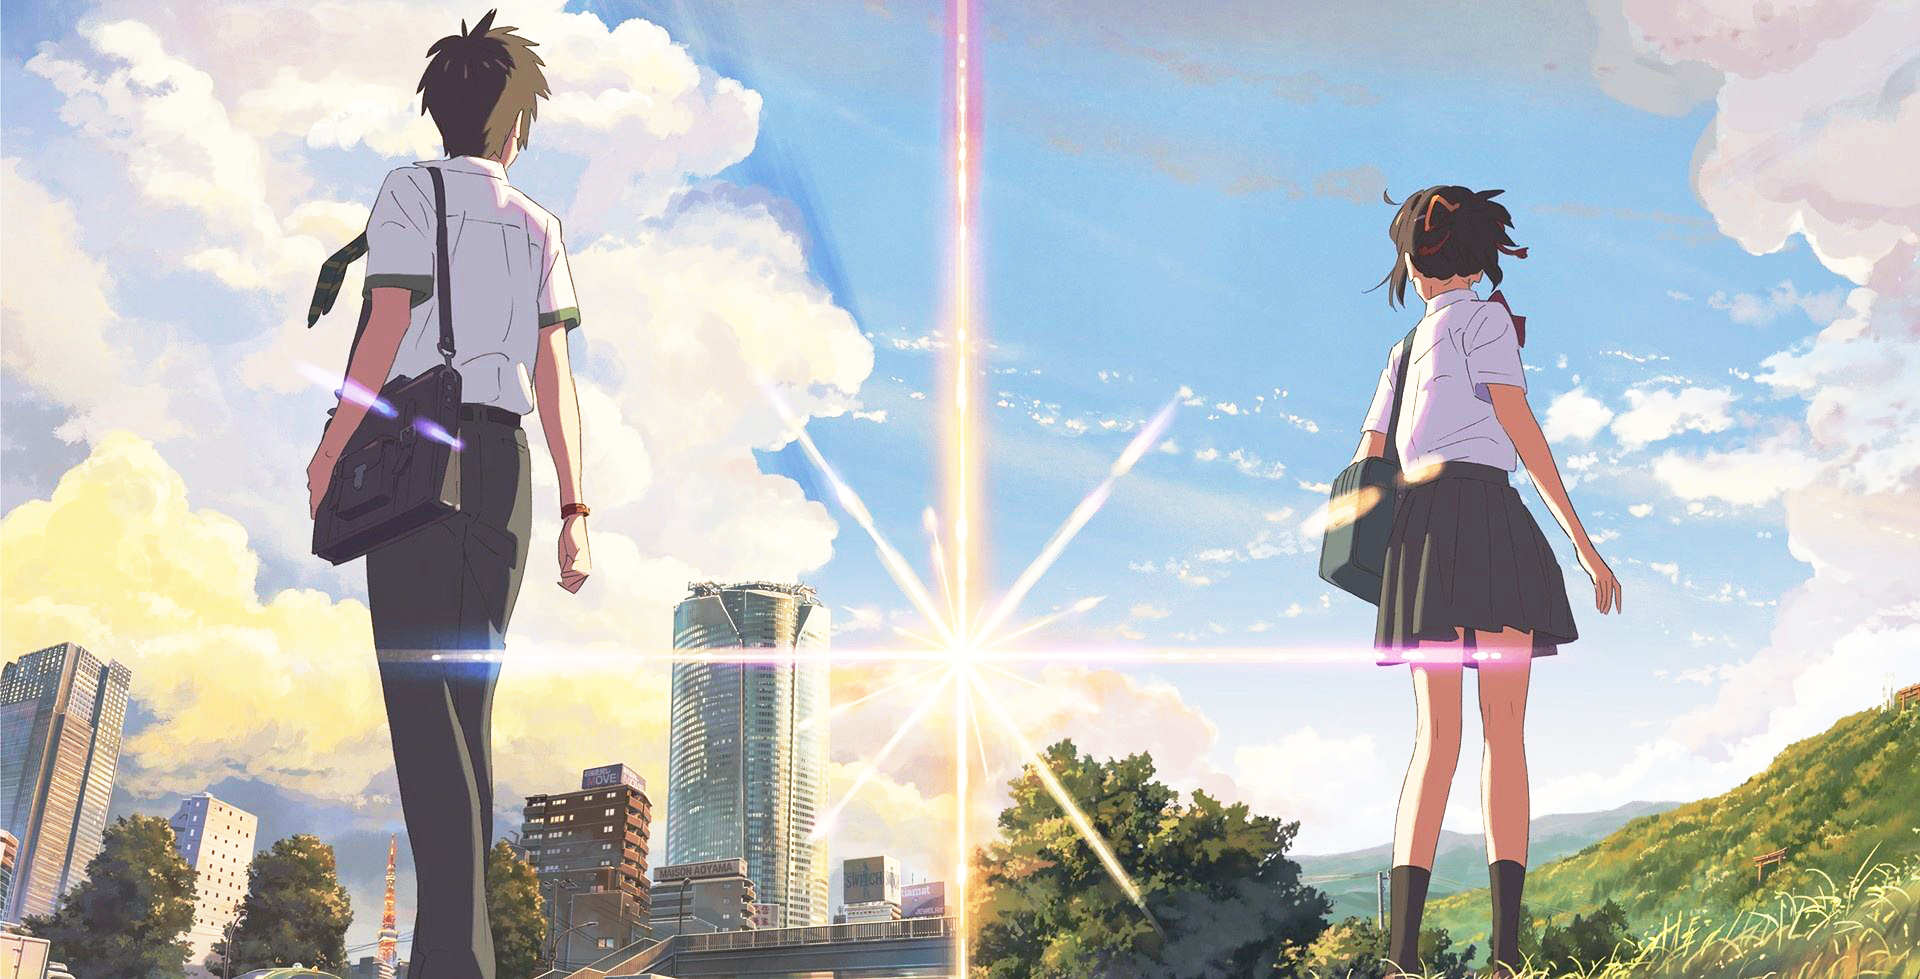
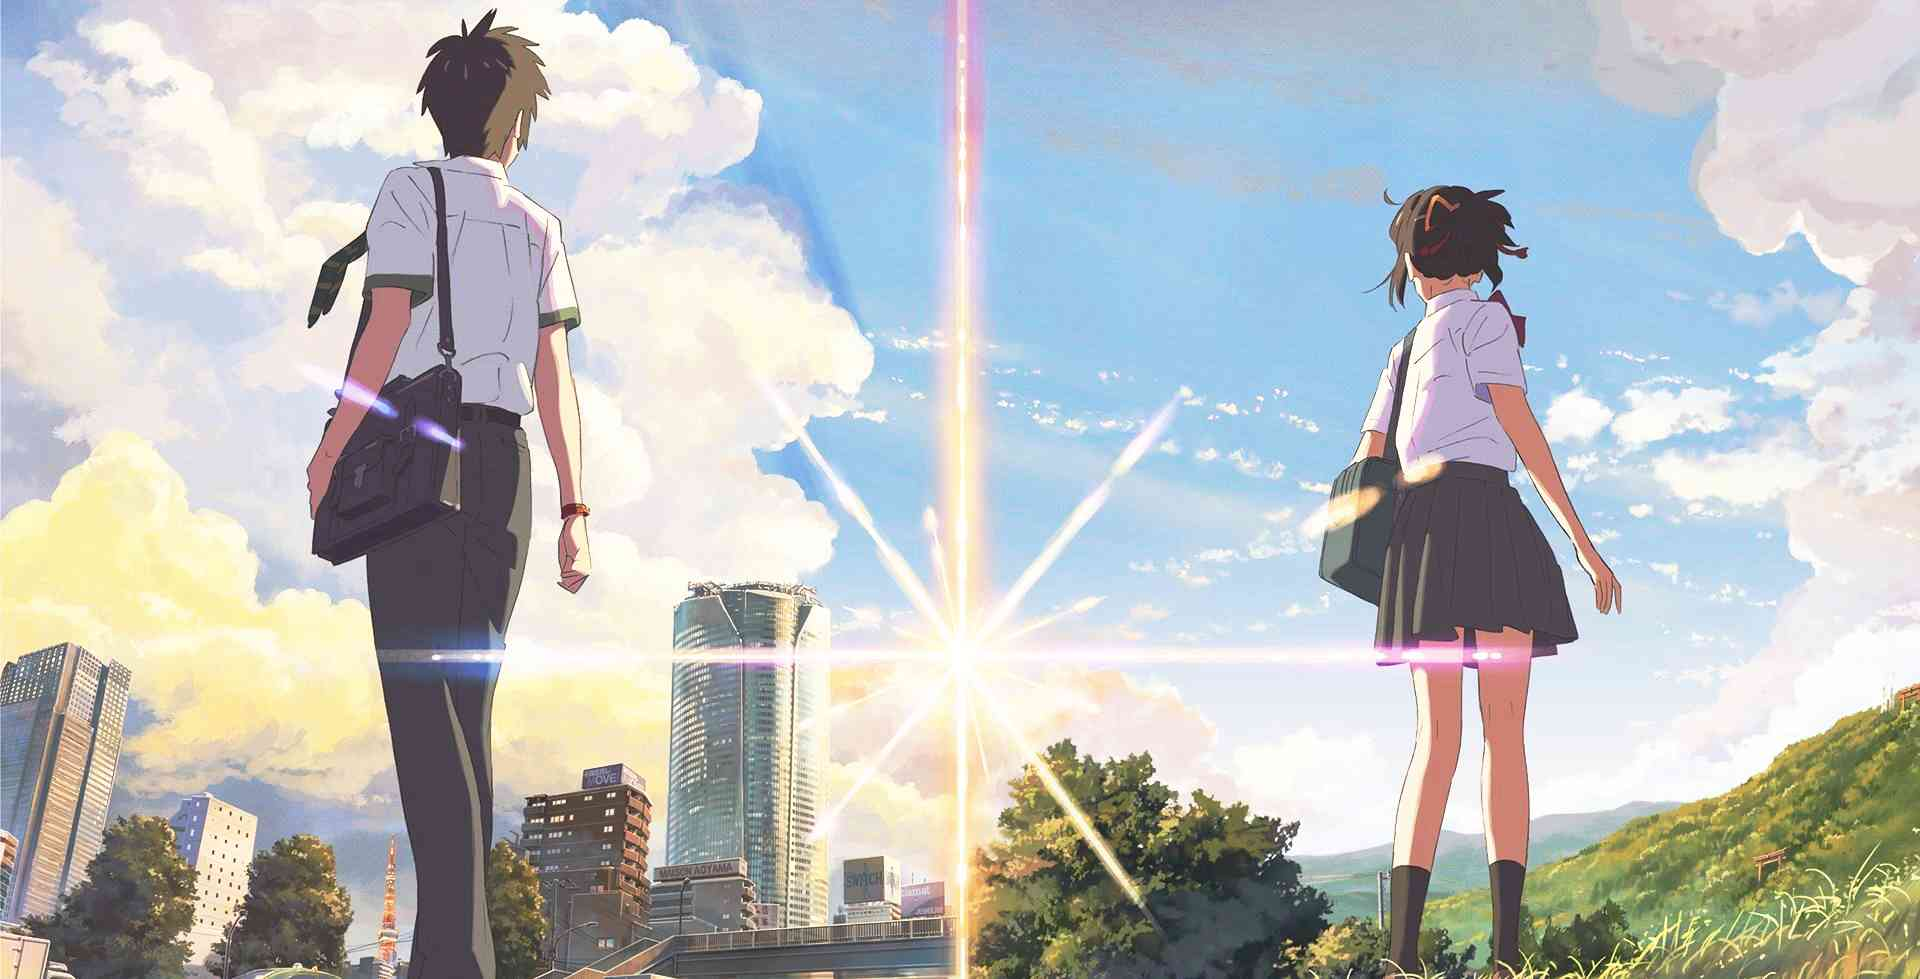
背景图大小优化

diff --git a/docs/M_服务器部署/服务器部署.md b/docs/M_服务器部署/服务器部署.md
@@ -1,0 +1,155 @@
+---
+title: 服务器部署
+categories:
+- M_服务器部署
+date: 2020-07-21 23:20:15
+tags:
+---
+
+## 下载安装nodeJS
+
+```bash
+#下载 nodejs
+wget https://nodejs.org/dist/v12.18.2/node-v12.18.2-linux-x64.tar.xz
+#将 tar.xz 文件转为 tar 文件
+xz -d node-v12.18.2-linux-x64.tar.xz
+#执行 tar 解压
+tar -xvf node-v12.18.2-linux-x64.tar
+#重命名 并移动到 opt 文件下
+mv node-v12.18.2-linux-x64 /opt/node
+#配置环境变量
+vim /etc/profile
+#在文件最下方添加一下代码
+export NODE_HOME=/usr/local/node  //Node所在路径
+export PATH=$NODE_HOME/bin:$PATH
+#执行命令使文件生效
+source /etc/profile
+#查看node环境变量是否生效 - 查看node版本
+node -v
+```
+
+
+
+### 下载安装 mongodb
+
+```bash
+#下载 mongdb
+wget  https://fastdl.mongodb.org/linux/mongodb-linux-x86_64-rhel70-4.2.5.tgz
+#解压
+tar -zxvf mongodb-linux-x86_64-rhel70-4.2.5.tgz
+#重命名
+mv mongodb-linux-x86_64-rhel70-4.2.5.tgz mongodb-4.2
+#在mongodb目录下创建data、logs目录和logs/mongodb.log文件
+mkdir data logs
+vi logs/mongodb.log
+#保存退出
+:wq
+#在mongodb 的bin目录下创建mongodb.conf配置文件
+vi mongodb.conf
+dbpath=/install/mongodb-4.2/data/db
+logpath=/install/mongodb-4.2/logs/mongodb.log
+port=27017
+fork=true
+
+#环境变量配置
+vi /etc/profile
+export MONGODB_HOME=/install/mongodb-4.2
+export PATH=$PATH:$MONGODB_HOME/bin
+
+#保存后，重启系统配置
+source /etc/profile
+
+#进入目录/etc/systemd/system/ 创建 mongodb.service
+vi /etc/systemd/system/mongodb.service
+#输入以下
+
+[Unit]
+Description=High-performance, schema-free document-oriented database
+After=network.target
+
+[Service]
+User=root
+ExecStart=/install/mongodb-4.2/bin/mongod --quiet --config /install/mongodb-4.2/bin/mongodb.conf
+
+[Install]
+WantedBy=multi-user.target
+
+#保存，启动并查看进程
+sudo systemctl start mongodb
+sudo systemctl status mongodb
+
+#让他永久启动
+sudo systemctl enable mongodb
+```
+
+
+
+### 本地上传文件到服务器
+
+```bash
+#scp -r 文件本地绝对地址 username@IP:服务器目标文件地址
+scp -r /Users/dukeshao/Documents/1000存档/工作区项目/xiaorizi/xiaorizi_houtai/testmongo.zip root@203.195.136.177:/myapp
+```
+
+
+
+### docker
+
+```bash
+yum install python3-pip
+#升级 pip3
+pip3 install --upgrade pip
+
+#使用 root 权限登录 Centos。确保 yum 包更新到最新。
+sudo yum update
+#安装需要的软件包， yum-util 提供yum-config-manager功能，另外两个是devicemapper驱动依赖的
+sudo yum install -y yum-utils device-mapper-persistent-data lvm2
+#设置yum源 新版的 Docker 推荐使用 json 配置文件的方式，默认为 /etc/docker/daemon.json，非默认路径需要修改 dockerd 的 –config-file，在该文件中加入如下内容： 
+{ 
+"registry-mirrors": ["http://hub-mirror.c.163.com"]
+}
+#安装 docker
+sudo yum install docker
+#启动并加入开机启动
+sudo systemctl start docker
+sudo systemctl enable docker
+#拉取 mongo 镜像
+docker pull mongo
+#启动 mongodb 并映射文件(:是映射文件目录)
+docker run -p 27017:27017 -v /install/mongo:/data/db --name mongo_container -d mongo
+#进入 mongo 容器，即可操作 mongodb 数据库
+docker exec -it mongo_container mongo admin
+```
+
+
+
+部署 node 接口的 dockerfile
+
+```dockerfile
+FROM node:latest
+RUN mkdir -p /opt/server
+WORKDIR /opt/server
+COPY /myapp/xiaorizi_back /opt/server
+RUN npm install
+EXPOSE 3355
+CMD node server.js
+```
+
+
+
+```bash
+#列出所有端口
+
+netstat -ntlp
+```
+
+## command not found
+
+```bash
+提示bash: ls: command not found，无法使用Linux命令
+是因为环境变量PATH被修改了
+只需在命令行执行
+export PATH=/bin:/usr/bin:$PATH
+即可
+```
+

diff --git a/docs/L_Webpack/extract-text-webpack-plugin.md b/docs/L_Webpack/extract-text-webpack-plugin.md
@@ -1,0 +1,101 @@
+---
+title: extract-text-webpack-plugin
+categories:
+- L_Webpack
+date: 2020-07-21 23:20:15
+tags:
+---
+
+# "extract-text-webpack-plugin" loader is used without the corresponding plugin
+
+解决 webpack 使用插件 extract-text-webpack-plugin 打包时出现 "extract-text-webpack-plugin" loader is used without the corresponding plugin 错误的问题.
+
+我的 webpack 是V4版本, 官方 https://github.com/webpack-contrib/extract-text-webpack-plugin  仓库中写到 "Since webpack v4 the `extract-text-webpack-plugin` should not be used for css. Use [mini-css-extract-plugin](https://github.com/webpack-contrib/mini-css-extract-plugin) instead." 意思就是说 v4版本的 webpack 不要使用 extract-text-webpack-plugin 而是使用 mini-css-extract-plugin.
+
+果断卸载掉 extract-text-webpack-plugin， 装上 mini-css-extract-plugin.
+
+以下是相关文件的配置: webpack.config.js , package.json
+
+```js
+//webpack.config.js
+const path = require('path');
+const HtmlWebpackPlugin = require('html-webpack-plugin');
+const MiniCssExtractPlugin = require('mini-css-extract-plugin');
+
+
+module.exports = {
+    mode: "development",
+    entry: './app/app.js',
+    output: {
+        path: path.resolve(__dirname, './dist'),
+        filename: 'epic-webpack.bundle.js'
+    },
+    //服务器webpack-dev-server
+    devServer: {
+        contentBase: path.resolve(__dirname, './app'),
+        open: true
+    },
+    module: {
+        rules: [
+            {
+                test: "/\.html$/",
+                use: "html-loader"
+            }, {
+                test: /\.(png|jpe?g|gif|woff|svg|eot|ttf)(\?.*)?$/,
+                use: "url-loader"
+            }, {
+                test: /\.(sa|sc|c)ss$/,
+                use: [
+                    {
+                        loader: MiniCssExtractPlugin.loader,
+                    },
+                    'css-loader',
+                    'sass-loader',
+                ],
+            }
+        ],
+    },
+    plugins: [
+        new HtmlWebpackPlugin({
+            template: './app/index.html'
+        }),
+        new MiniCssExtractPlugin()
+    ]
+};
+```
+
+
+
+```json
+//package.json
+{
+    "name": "webpack-app",
+    "version": "1.0.0",
+    "description": "",
+    "main": "app.js",
+    "scripts": {
+        "test": "echo \"Error: no test specified\" && exit 1",
+        "build": "webpack",
+        "dev": "webpack-dev-server --hot --inline"
+    },
+    "author": "duke",
+    "license": "ISC",
+    "devDependencies": {
+        "css-loader": "^3.4.2",
+        "html-loader": "^1.0.0",
+        "html-webpack-plugin": "^3.2.0",
+        "mini-css-extract-plugin": "^0.9.0",
+        "node-sass": "^4.13.1",
+        "sass-loader": "^8.0.2",
+        "style-loader": "^1.1.3",
+        "url-loader": "^4.0.0",
+        "webpack": "^4.42.0",
+        "webpack-cli": "^3.3.11",
+        "webpack-dev-server": "^3.10.3",
+        "webpack-manifest-plugin": "^2.2.0",
+        "webpack-merge": "^4.2.2"
+    },
+    "dependencies": {}
+}
+```
+
